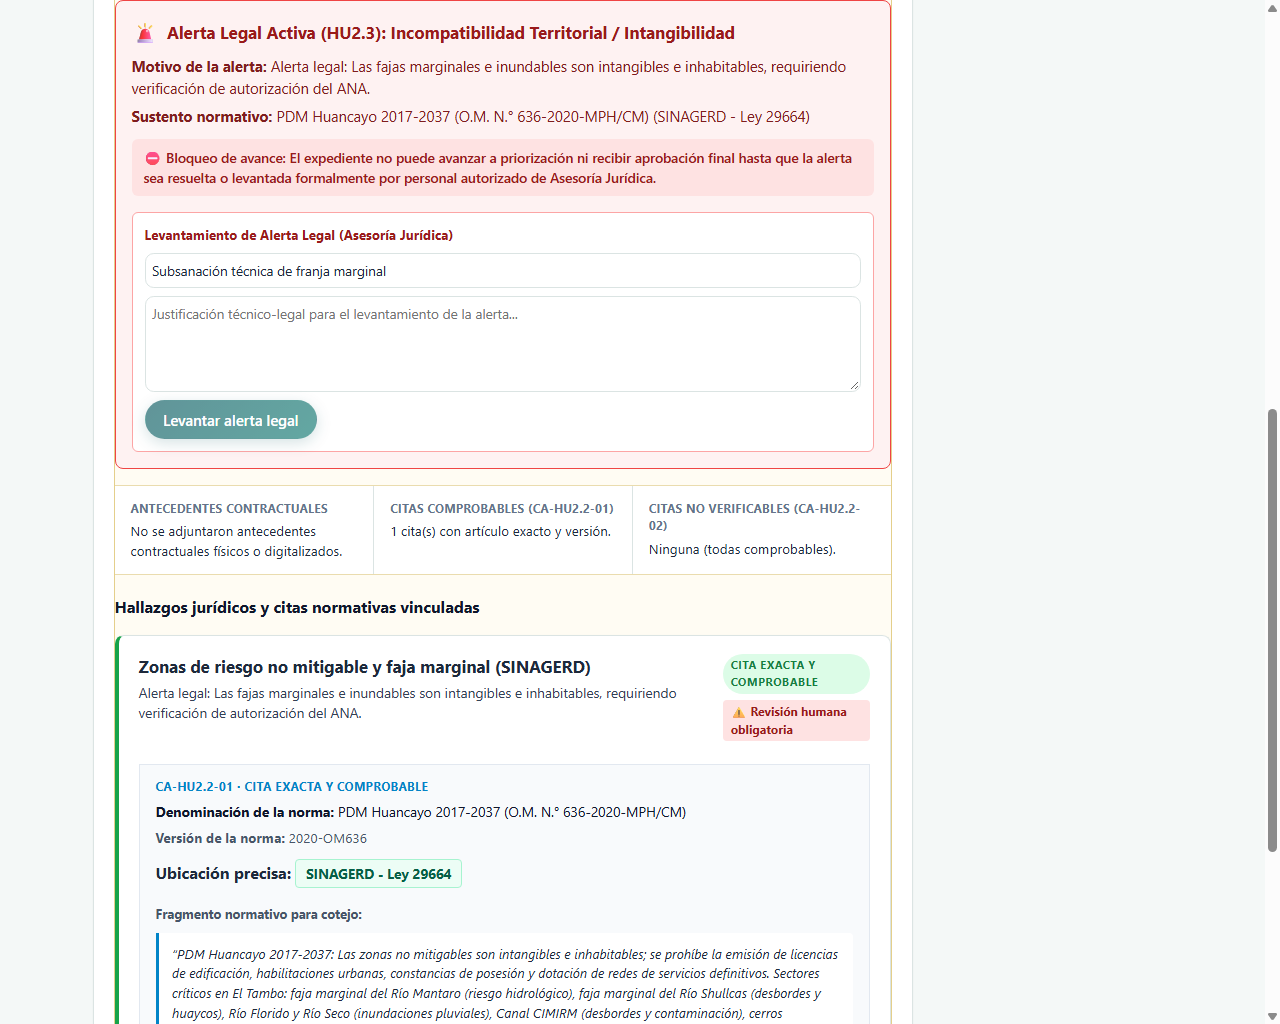
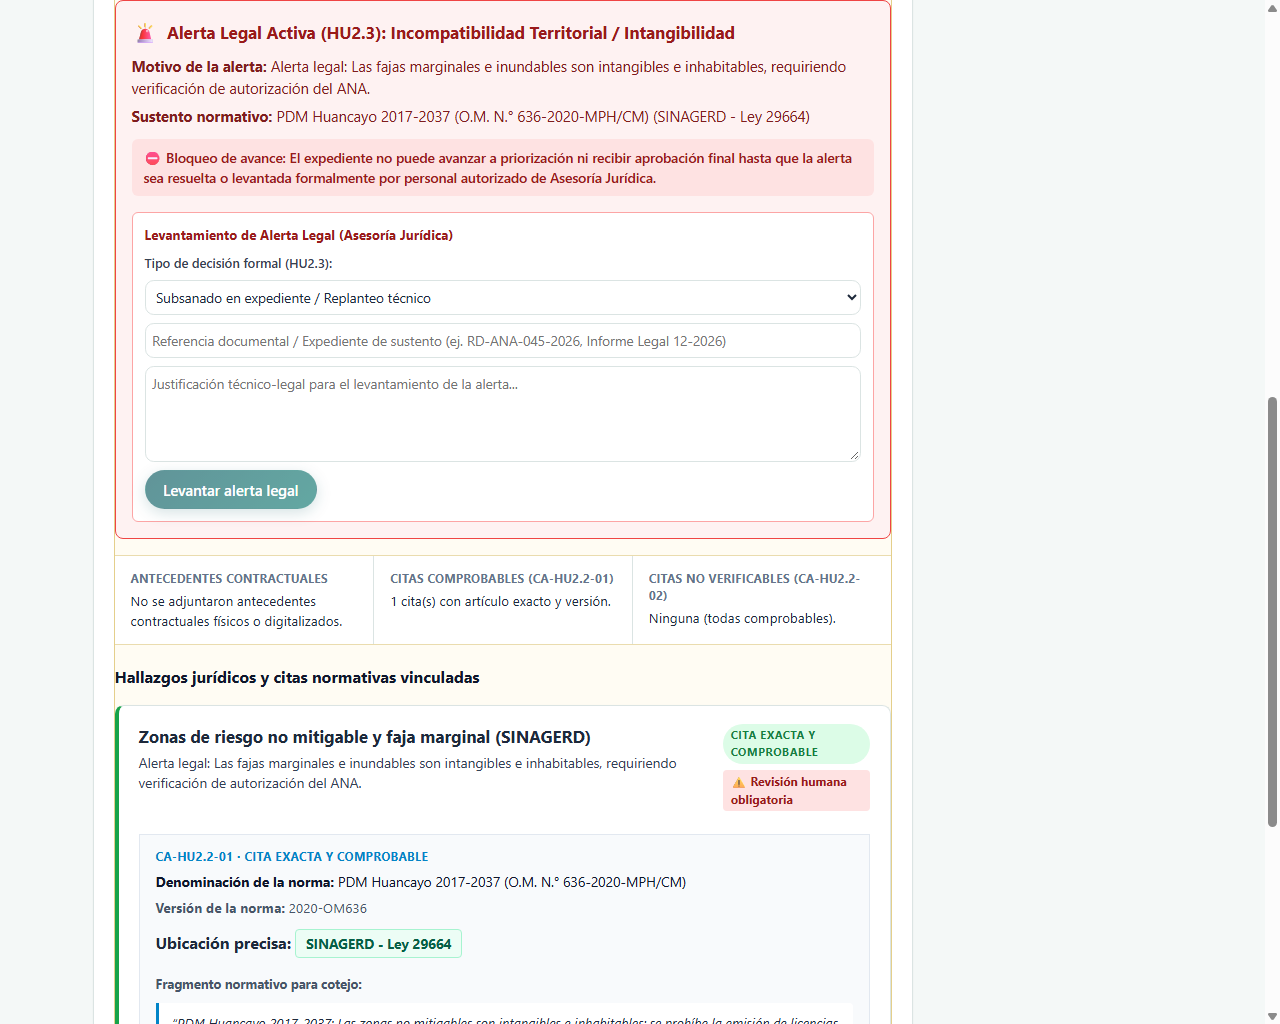
chore(evidence): registrar capturas de integracion del MVP2 y configuracion de conexion local

Changed region(s): [[0.0625, 0.25, 0.6875, 1.0], [0.9688, 0.8125, 1.0, 0.8438]]

diff --git a/frontend/src/api/client.ts b/frontend/src/api/client.ts
@@ -1,7 +1,7 @@
 import type { ApiErrorBody } from '../types/proyecto'
 import { clearAccessToken, loadAccessToken } from './authStorage'
 
-export const API_BASE = import.meta.env.VITE_API_BASE_URL ?? ''
+export const API_BASE = import.meta.env.VITE_API_BASE_URL ?? 'http://127.0.0.1:8000'
 
 export async function parseApiError(response: Response): Promise<string> {
   try {

diff --git a/backend/infrastructure/config/settings.py b/backend/infrastructure/config/settings.py
@@ -34,6 +34,7 @@ class Settings(BaseSettings):
     cors_origins: list[str] = [
         "http://localhost:3000",
         "http://localhost:5173",
+        "http://127.0.0.1:5173",
     ]
     gemini_api_key: SecretStr | None = None
     ai_model: str = Field(default="gemini-3.1-flash-lite", min_length=1)
